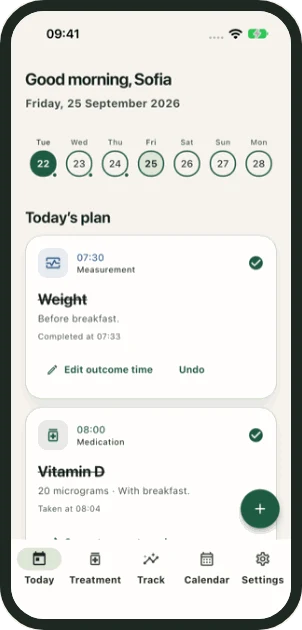
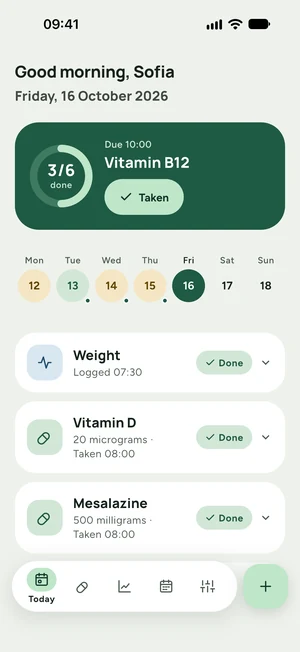
feat: show the current Fernly screens (#5)

diff --git a/site/index.html b/site/index.html
@@ -171,15 +171,15 @@
           <p class="d02-status">Coming soon · iPhone &amp; Android</p>
         </div>
         <div class="d02-rbody">
-          <p class="d02-p">A private medication and health journal. No account, no server, no analytics. Everything lives in one encrypted file on your phone, and you decide what leaves it.</p>
+          <p class="d02-p">A private medication and health journal. No account, no server, no analytics. Your records live in an encrypted database on your phone, and you decide what leaves it.</p>
           <p class="d02-why">Because health notes aren't ordinary app data, even when most apps treat them that way.</p>
         </div>
         <div class="d02-rmeta"><p>Flutter, Dart, local-first, encrypted</p></div>
         <div class="d02-rextra">
           <div class="d02-plates">
-            <figure class="d02-plate"><img src="images/fernly-today.webp" loading="lazy" decoding="async" width="302" height="630" alt="Fernly app screenshot of the Today screen: a greeting, a strip of the week and today's plan."><figcaption>Today</figcaption></figure>
-            <figure class="d02-plate"><img src="images/fernly-calendar.webp" loading="lazy" decoding="async" width="302" height="630" alt="Fernly app screenshot of the Calendar screen: a month view with marked days and the plan for the chosen day."><figcaption>Calendar</figcaption></figure>
-            <figure class="d02-plate"><img src="images/fernly-treatment.webp" loading="lazy" decoding="async" width="302" height="630" alt="Fernly app screenshot of the Treatment screen: a list of planned entries, such as a medication with a Pause button."><figcaption>Treatment</figcaption></figure>
+            <figure class="d02-plate"><img src="images/fernly-today.webp" loading="lazy" decoding="async" width="300" height="652" alt="Fernly app screenshot of the Today screen: a greeting, the next dose with a Taken button, a strip of the week and the entries already done today."><figcaption>Today</figcaption></figure>
+            <figure class="d02-plate"><img src="images/fernly-treatment.webp" loading="lazy" decoding="async" width="300" height="652" alt="Fernly app screenshot of the Treatment screen: active medication plans, each with a stock bar and an estimate of the days left."><figcaption>Treatment</figcaption></figure>
+            <figure class="d02-plate"><img src="images/fernly-grove.webp" loading="lazy" decoding="async" width="300" height="652" alt="Fernly app screenshot of Your grove: illustrated woodland friends, such as Nøtt the squirrel and a snail, that move in as you care for yourself."><figcaption>Your grove</figcaption></figure>
             <div class="d02-nott">
               <img src="images/nott.webp" loading="lazy" decoding="async" width="257" height="300" alt="Nøtt, a smiling red squirrel with a fern leaf, Fernly's mascot">
               <p>Hi, I'm Nøtt. I remind you. I never judge.</p>

diff --git a/site/style.css b/site/style.css
@@ -209,7 +209,7 @@ body{margin:0}
 .d02-rextra{grid-column:2 / -1;margin-top:28px}
 .d02-plates{display:grid;grid-template-columns:repeat(3,minmax(0,1fr)) minmax(0,1.15fr);column-gap:28px;align-items:start}
 .d02-plate{background:var(--paper);border:1px solid var(--ink);padding:5px}
-.d02-plate img{display:block;width:100%;height:auto;border:1px solid var(--ink)}
+.d02-plate img{display:block;width:100%;height:auto;border:1px solid var(--ink);background:#EEF2EC}
 .d02-plate figcaption{font:500 13px/1.2 var(--cond);letter-spacing:.14em;text-transform:uppercase;color:var(--ink2);padding:9px 3px 4px}
 .d02-nott{display:flex;flex-direction:column;align-items:flex-start;gap:12px}
 .d02-nott img{display:block;width:120px;height:auto}
